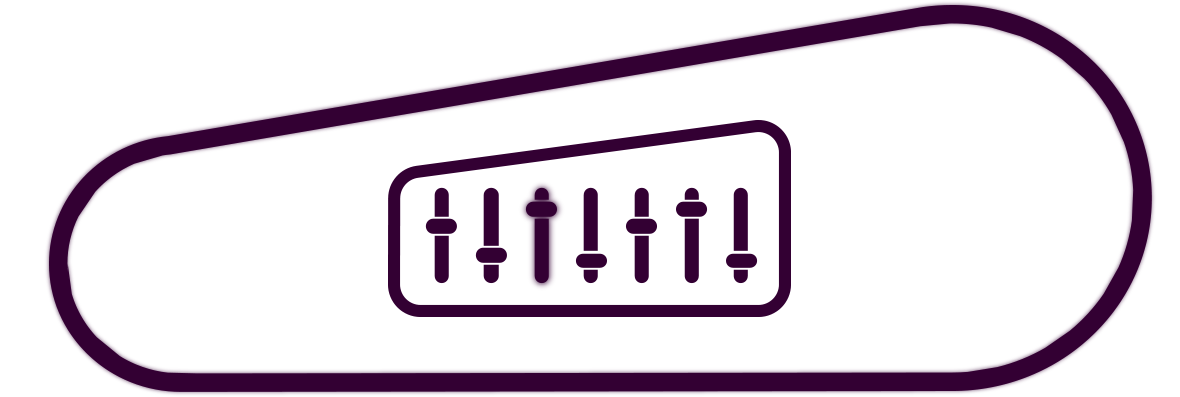
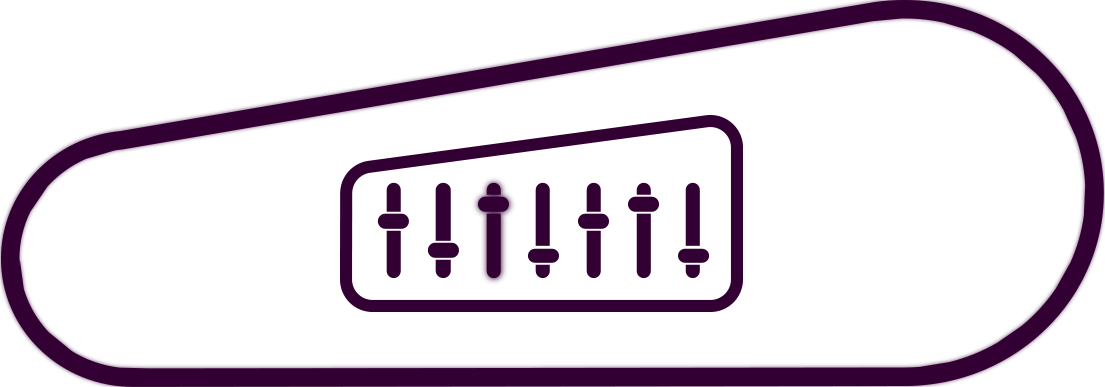
Placing conveyor belt

Changed region(s): [[0.0, 0.0, 1.0, 1.0], [0.3077, 0.2791, 0.6769, 0.8062]]

diff --git a/assets/css/main.css b/assets/css/main.css
@@ -81,7 +81,7 @@ html {
   100% {
     transform: rotate(0deg); } }
 
-#knob, #knob2 {
+#conveyor__gear-sm, #conveyor__gear-lg {
   -webkit-animation: spin 3s infinite linear;
   animation: spin 3s infinite linear; }
 
@@ -216,10 +216,14 @@ body {
 .hide {
   display: none; }
 
-.conveyor-belt #belt {
-  position: absolute;
-  bottom: 0;
-  left: 50%; }
+.conveyor-belt {
+  position: relative;
+  width: 90%;
+  margin: 0 auto; }
+  .conveyor-belt #belt {
+    position: absolute;
+    bottom: 0;
+    width: 100%; }
 
 .primary {
   position: absolute;
@@ -340,4 +344,4 @@ body {
     right: 20px;
     z-index: 5; }
 
[2 lines of base64/hex data omitted]

diff --git a/assets/css/main.min.css b/assets/css/main.min.css
@@ -1,2 +1,2 @@
-.content,body,html{background-color:#0f1131}.conveyor-belt #belt,.pipe{bottom:0;position:absolute}.container__item,.conveyor-belt #belt,.gear-container,.pipe,.primary,.waves-container{position:absolute}.container,.primary,body{overflow:hidden}a,abbr,acronym,address,applet,article,aside,audio,b,big,blockquote,body,canvas,caption,center,cite,code,dd,del,details,dfn,div,dl,dt,em,embed,fieldset,figcaption,figure,footer,form,h1,h2,h3,h4,h5,h6,header,hgroup,html,i,iframe,img,ins,kbd,label,legend,li,mark,menu,nav,object,ol,output,p,pre,q,ruby,s,samp,section,small,span,strike,strong,sub,summary,sup,table,tbody,td,tfoot,th,thead,time,tr,tt,u,ul,var,video{margin:0;padding:0;border:0;font:inherit;vertical-align:baseline}article,aside,details,figcaption,figure,footer,header,hgroup,menu,nav,section{display:block}body{line-height:1;font-family:'Open Sans',sans-serif;color:#fff}ol,ul{list-style:none}blockquote,q{quotes:none}blockquote:after,blockquote:before,q:after,q:before{content:'';content:none}table{border-collapse:collapse;border-spacing:0}*{box-sizing:border-box;-webkit-box-sizinshoe-side2g:border-box}.clearfix:after{content:"";display:table;clear:both}body,html{width:100%;height:100%}html{-webkit-font-smoothing:antialiased;-moz-osx-font-smoothing:grayscale;-rendering:optimizelegibility}@keyframes wiggle_x_rotate{0%,100%,50%{transform:rotate(0)}25%,75%{transform:rotate(-1deg)}}#knob,#knob2{-webkit-animation:spin 3s infinite linear;animation:spin 3s infinite linear}@-webkit-keyframes spin{0%{-webkit-transform:rotate(0)}100%{-webkit-transform:rotate(360deg)}}span{text-decoration:uppercase;font-weight:700}.gear-container{z-index:4;animation-duration:1s;animation-iteration-count:infinite;animation-direction:alternate;animation-timing-function:ease-in-out}.gear-container #gear{float:left;color:#228DFF}.gear-container #gear2{float:left;margin-left:-40px}.gear-container #gear3{width:20%}.gear-container #gear4,.gear-container #gear5{width:15%}.browser{text-align:center}.parallax>use{animation:move-forever 3s linear infinite;transition-duration:1s}.parallax>use:nth-child(1){animation-delay:-2s}.parallax>use:nth-child(2){animation-delay:-3s;animation-duration:1.5s}.parallax>use:nth-child(3){animation-delay:-4s;animation-duration:2s}.parallax>use:nth-child(4){animation-delay:-4s;animation-duration:2.5s}.parallax_slower>use{animation:move-forever 3.5s linear infinite;transition-duration:1s}.parallax_slower>use:nth-child(1){animation-delay:-2s}.parallax_slower>use:nth-child(2){animation-delay:-3s;animation-duration:5s}.parallax_slower>use:nth-child(3){animation-delay:-4s;animation-duration:3s}.parallax_slower>use:nth-child(4){animation-delay:-4s;animation-duration:4s}@keyframes move-forever{0%{transform:translate(-90px,0)}100%{transform:translate(85px,0)}}.waves-container{display:block;width:100%;height:250px;margin:0;opacity:.45}.content{min-height:70vh;margin:-.1em 0 0;padding:1em;opacity:.45}@media (max-width:50em){.editorial{height:17vw}}.spin-button-container{position:absolute;width:275px;top:60%;right:10%;z-index:4}.spin-button-container .directions{text-align:right;padding-left:85px}.container{width:100%;height:100%;background:url(../img/PurpleGears_Layout.png) no-repeat #0f1131;background-size:cover}.container__item{width:100%;height:100%;background:url(../img/redGears_Layout.png) no-repeat;background-size:cover;z-index:2}.pipe{left:0}.pipe .pipe-smoke{margin-bottom:-44px;margin-left:15px}.hide{display:none}.conveyor-belt #belt{left:50%}.primary{width:100%;height:auto;background-color:#0f1131;z-index:31;-webkit-transition:all 2.5s cubic-bezier(.17,.67,1,1.23);-moz-transition:all 2.5s cubic-bezier(.17,.67,1,1.23);transition:all 2.5s cubic-bezier(.17,.67,1,1.23);-webkit-clip-path:polygon(0 0,100% 0,100% 79%,0 100%);clip-path:polygon(0 0,100% 0,100% 79%,0 100%)}.primary .main-logo-container .logo{width:100%;overflow:hidden}.primary .main-logo-container video{position:fixed;top:50%;left:50%;min-width:100%;min-height:100%;width:auto;height:auto;z-index:-100;transform:translate(-50%,-50%)}.primary .main-logo-container .sponsorship{position:absolute;right:36px;bottom:20%;transform:rotate(-7deg);color:#fff;font-size:1.2em}.primary #open-container{position:absolute;bottom:10%;left:36px;width:100%;margin:auto}.primary #open-container .open{float:left;width:20%;text-decoration:none;-webkit-transition:all 1.5s;-moz-transition:all 1.5s;transition:all 1.5s}.secondary,.text{position:absolute;width:100%}.primary #open-container .open:hover{background-color:#ef3c3a;box-shadow:inset 0 0 50px #fff,inset 20px 0 80px #f0f,inset -20px 0 80px #0ff,inset 20px 0 300px #f0f,inset -20px 0 300px #0ff,0 0 50px #fff,-10px 0 80px #f0f,10px 0 80px #0ff}.move-up{transform:translateY(-210%)}.secondary{height:100%;background-color:rgba(15,17,49,.7);z-index:30;-webkit-transition:all 2.5s cubic-bezier(.17,.67,1,1.23);-moz-transition:all 2.5s cubic-bezier(.17,.67,1,1.23);transition:all 2.5s cubic-bezier(.17,.67,1,1.23)}.text{height:250px;z-index:10}.text .text-body{width:80%;margin:237px auto;line-height:1.282;font-size:1.2em}@media only screen and (min-width:768px){.text .text-body{width:50%;font-size:1.7em}}.continue{margin:500px auto;position:relative;width:50%}.open-arrow{position:absolute;top:-37px;left:-29%;width:55px}.continue-container{position:absolute;top:-5px;left:15%;width:230px}@media only screen and (min-width:768px){.continue-container{left:30%}}.continue-container .continue-text{font-size:23.5px}.continue-button{width:80%}@-webkit-keyframes neon1{from{text-shadow:0 0 10px #fff,0 0 20px #fff,0 0 30px #fff,0 0 40px #F17,0 0 70px #F17,0 0 80px #F17,0 0 100px #F17,0 0 150px #F17}to{text-shadow:0 0 5px #fff,0 0 10px #fff,0 0 15px #fff,0 0 20px #F17,0 0 35px #F17,0 0 40px #F17,0 0 50px #F17,0 0 75px #F17}}.sectionTwo{position:absolute;z-index:100;transform:translateY(100%)}.sectionTwo .pull-reveal{position:absolute;bottom:0;right:20px;z-index:5}
[1 lines of base64/hex data omitted]
+.content,body,html{background-color:#0f1131}.container,.primary,body{overflow:hidden}a,abbr,acronym,address,applet,article,aside,audio,b,big,blockquote,body,canvas,caption,center,cite,code,dd,del,details,dfn,div,dl,dt,em,embed,fieldset,figcaption,figure,footer,form,h1,h2,h3,h4,h5,h6,header,hgroup,html,i,iframe,img,ins,kbd,label,legend,li,mark,menu,nav,object,ol,output,p,pre,q,ruby,s,samp,section,small,span,strike,strong,sub,summary,sup,table,tbody,td,tfoot,th,thead,time,tr,tt,u,ul,var,video{margin:0;padding:0;border:0;font:inherit;vertical-align:baseline}article,aside,details,figcaption,figure,footer,header,hgroup,menu,nav,section{display:block}body{line-height:1;font-family:'Open Sans',sans-serif;color:#fff}ol,ul{list-style:none}blockquote,q{quotes:none}blockquote:after,blockquote:before,q:after,q:before{content:'';content:none}table{border-collapse:collapse;border-spacing:0}*{box-sizing:border-box;-webkit-box-sizinshoe-side2g:border-box}.clearfix:after{content:"";display:table;clear:both}body,html{width:100%;height:100%}html{-webkit-font-smoothing:antialiased;-moz-osx-font-smoothing:grayscale;-rendering:optimizelegibility}@keyframes wiggle_x_rotate{0%,100%,50%{transform:rotate(0)}25%,75%{transform:rotate(-1deg)}}#conveyor__gear-lg,#conveyor__gear-sm{-webkit-animation:spin 3s infinite linear;animation:spin 3s infinite linear}@-webkit-keyframes spin{0%{-webkit-transform:rotate(0)}100%{-webkit-transform:rotate(360deg)}}span{text-decoration:uppercase;font-weight:700}.gear-container{position:absolute;z-index:4;animation-duration:1s;animation-iteration-count:infinite;animation-direction:alternate;animation-timing-function:ease-in-out}.gear-container #gear{float:left;color:#228DFF}.gear-container #gear2{float:left;margin-left:-40px}.gear-container #gear3{width:20%}.gear-container #gear4,.gear-container #gear5{width:15%}.browser{text-align:center}.parallax>use{animation:move-forever 3s linear infinite;transition-duration:1s}.parallax>use:nth-child(1){animation-delay:-2s}.parallax>use:nth-child(2){animation-delay:-3s;animation-duration:1.5s}.parallax>use:nth-child(3){animation-delay:-4s;animation-duration:2s}.parallax>use:nth-child(4){animation-delay:-4s;animation-duration:2.5s}.parallax_slower>use{animation:move-forever 3.5s linear infinite;transition-duration:1s}.parallax_slower>use:nth-child(1){animation-delay:-2s}.parallax_slower>use:nth-child(2){animation-delay:-3s;animation-duration:5s}.parallax_slower>use:nth-child(3){animation-delay:-4s;animation-duration:3s}.parallax_slower>use:nth-child(4){animation-delay:-4s;animation-duration:4s}@keyframes move-forever{0%{transform:translate(-90px,0)}100%{transform:translate(85px,0)}}.waves-container{position:absolute;display:block;width:100%;height:250px;margin:0;opacity:.45}.content{min-height:70vh;margin:-.1em 0 0;padding:1em;opacity:.45}@media (max-width:50em){.editorial{height:17vw}}.spin-button-container{position:absolute;width:275px;top:60%;right:10%;z-index:4}.spin-button-container .directions{text-align:right;padding-left:85px}.container{width:100%;height:100%;background:url(../img/PurpleGears_Layout.png) no-repeat #0f1131;background-size:cover}.container__item{position:absolute;width:100%;height:100%;background:url(../img/redGears_Layout.png) no-repeat;background-size:cover;z-index:2}.pipe{position:absolute;bottom:0;left:0}.pipe .pipe-smoke{margin-bottom:-44px;margin-left:15px}.hide{display:none}.conveyor-belt{position:relative;width:90%;margin:0 auto}.conveyor-belt #belt{position:absolute;bottom:0;width:100%}.primary{position:absolute;width:100%;height:auto;background-color:#0f1131;z-index:31;-webkit-transition:all 2.5s cubic-bezier(.17,.67,1,1.23);-moz-transition:all 2.5s cubic-bezier(.17,.67,1,1.23);transition:all 2.5s cubic-bezier(.17,.67,1,1.23);-webkit-clip-path:polygon(0 0,100% 0,100% 79%,0 100%);clip-path:polygon(0 0,100% 0,100% 79%,0 100%)}.primary .main-logo-container .logo{width:100%;overflow:hidden}.primary .main-logo-container video{position:fixed;top:50%;left:50%;min-width:100%;min-height:100%;width:auto;height:auto;z-index:-100;transform:translate(-50%,-50%)}.primary .main-logo-container .sponsorship{position:absolute;right:36px;bottom:20%;transform:rotate(-7deg);color:#fff;font-size:1.2em}.primary #open-container{position:absolute;bottom:10%;left:36px;width:100%;margin:auto}.primary #open-container .open{float:left;width:20%;text-decoration:none;-webkit-transition:all 1.5s;-moz-transition:all 1.5s;transition:all 1.5s}.secondary,.text{position:absolute;width:100%}.primary #open-container .open:hover{background-color:#ef3c3a;box-shadow:inset 0 0 50px #fff,inset 20px 0 80px #f0f,inset -20px 0 80px #0ff,inset 20px 0 300px #f0f,inset -20px 0 300px #0ff,0 0 50px #fff,-10px 0 80px #f0f,10px 0 80px #0ff}.move-up{transform:translateY(-210%)}.secondary{height:100%;background-color:rgba(15,17,49,.7);z-index:30;-webkit-transition:all 2.5s cubic-bezier(.17,.67,1,1.23);-moz-transition:all 2.5s cubic-bezier(.17,.67,1,1.23);transition:all 2.5s cubic-bezier(.17,.67,1,1.23)}.text{height:250px;z-index:10}.text .text-body{width:80%;margin:237px auto;line-height:1.282;font-size:1.2em}@media only screen and (min-width:768px){.text .text-body{width:50%;font-size:1.7em}}.continue{margin:500px auto;position:relative;width:50%}.open-arrow{position:absolute;top:-37px;left:-29%;width:55px}.continue-container{position:absolute;top:-5px;left:15%;width:230px}@media only screen and (min-width:768px){.continue-container{left:30%}}.continue-container .continue-text{font-size:23.5px}.continue-button{width:80%}@-webkit-keyframes neon1{from{text-shadow:0 0 10px #fff,0 0 20px #fff,0 0 30px #fff,0 0 40px #F17,0 0 70px #F17,0 0 80px #F17,0 0 100px #F17,0 0 150px #F17}to{text-shadow:0 0 5px #fff,0 0 10px #fff,0 0 15px #fff,0 0 20px #F17,0 0 35px #F17,0 0 40px #F17,0 0 50px #F17,0 0 75px #F17}}.sectionTwo{position:absolute;z-index:100;transform:translateY(100%)}.sectionTwo .pull-reveal{position:absolute;bottom:0;right:20px;z-index:5}
[1 lines of base64/hex data omitted]

diff --git a/index.html b/index.html
@@ -129,8 +129,8 @@
 
 		<div class="conveyor-belt">
 			<img id="belt" src="assets/img/final/Belt-and-Switches.png">
- 			<img id="knob" src="assets/img/final/smallGearBelt.png">
-			<img id="knob2" src="assets/img/final/bigGearBelt.png">
+ 			<img id="conveyor__gear-sm" src="assets/img/final/smallGearBelt.png">
+			<img id="conveyor__gear-lg" src="assets/img/final/bigGearBelt.png">
 		</div>
 
 	</div> <!-- end of .container -->

diff --git a/assets/scss/pages/_sectionOne.scss b/assets/scss/pages/_sectionOne.scss
@@ -50,9 +50,13 @@ body{
 }
 
 .conveyor-belt{
+	position: relative;
+	width: 90%;
+	margin: 0 auto;
+	
 	#belt{
 		position: absolute;
 		bottom: 0;
-		left: 50%;
+		width: 100%;
 	}
 }

diff --git a/assets/scss/components/_animations.scss b/assets/scss/components/_animations.scss
@@ -8,7 +8,7 @@
 
 
 
-#knob, #knob2{
+#conveyor__gear-sm, #conveyor__gear-lg{
   -webkit-animation: spin 3s infinite linear;
   animation: spin 3s infinite linear;
 }
